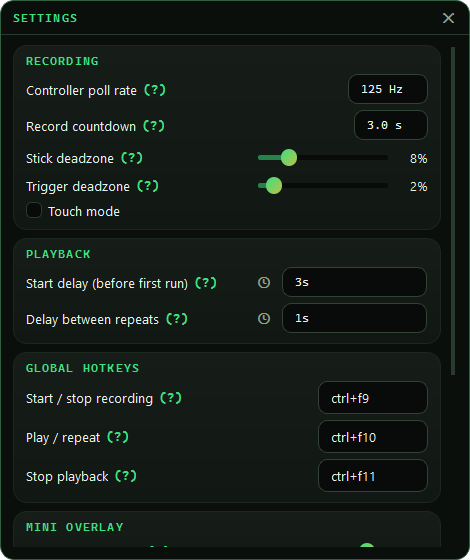
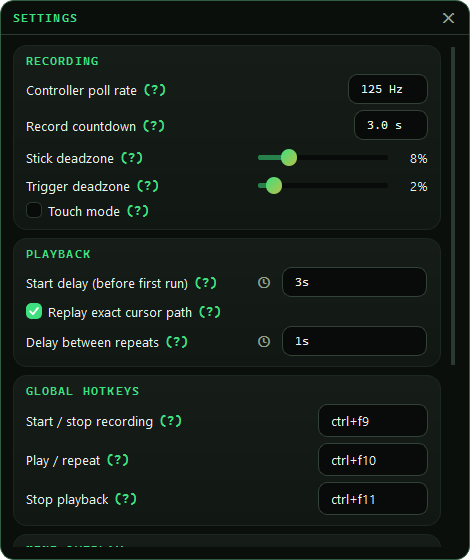
Exact cursor path defaults ON; (?) help on every settings checkbox
- mouse_path_replay defaults True: pixel-deterministic replay on any
  device/settings/screen is the right default for most users; game
  camera-look macros switch it off for raw counts
- All settings checkboxes (Touch mode, Replay exact cursor path, Show
  hotkey hints, Sound cues) now carry the same (?) hover-help as every
  other row - no setting goes unexplained
- README settings row + mouse-capture feature bullet updated for the
  new default; settings screenshot retaken

diff --git a/ui/settings_panel.py b/ui/settings_panel.py
@@ -147,6 +147,18 @@ class SettingsDialog(FramelessDialog):
         h.addWidget(value_label)
         self._setting(section, title, wrap, tip)
 
+    def _check_row(self, section: QVBoxLayout, checkbox: QCheckBox,
+                   tip: str) -> None:
+        """Checkbox row with the same (?) hover-help as every other
+        setting — no row goes unexplained."""
+        checkbox.setToolTip(_rich(tip))
+        row = QHBoxLayout()
+        row.setSpacing(6)
+        row.addWidget(checkbox)
+        row.addWidget(HelpMark(tip))
+        row.addStretch(1)
+        section.addLayout(row)
+
     # ------------------------------------------------------------- sections
     def _build_recording_section(self) -> None:
         s = self._section("Recording")
@@ -206,12 +218,12 @@ class SettingsDialog(FramelessDialog):
         self.touch_mode = QCheckBox("Touch mode")
         self.touch_mode.setChecked(cfg.touch_mode)
         self.touch_mode.toggled.connect(self._apply)
-        self.touch_mode.setToolTip(_rich(
+        self._check_row(
+            s, self.touch_mode,
             "Record taps, drags and swipes as absolute on-screen gestures "
             "and replay them as genuine Windows touch input. Best for "
             "touchscreen apps and UI automation. Leave OFF for games — "
-            "they need the default relative mouse deltas for camera look."))
-        s.addWidget(self.touch_mode)
+            "they need the default relative mouse deltas for camera look.")
 
     def _build_playback_section(self) -> None:
         s = self._section("Playback")
@@ -231,19 +243,18 @@ class SettingsDialog(FramelessDialog):
         self.mouse_path = QCheckBox("Replay exact cursor path")
         self.mouse_path.setChecked(cfg.playback.mouse_path_replay)
         self.mouse_path.toggled.connect(self._apply)
-        self.mouse_path.setToolTip(_rich(
-            "ON: mouse motion replays as the exact recorded cursor "
-            "positions (absolute) — bypasses pointer speed/acceleration "
-            "entirely, so it is pixel-deterministic on ANY device and "
-            "settings, including touchpads, and rescales across screen "
-            "sizes. Use this for desktop/UI macros — especially with "
-            "Windows' 'Enhance pointer precision' enabled, where "
-            "raw-count replay of hand motion ALWAYS drifts (the accel "
-            "curve is velocity-dependent). "
-            "OFF (default): raw relative counts — what games need for "
-            "camera look (games read input before acceleration, so "
-            "they are unaffected by it)."))
-        s.addWidget(self.mouse_path)
+        self._check_row(
+            s, self.mouse_path,
+            "ON (default): mouse motion replays as the exact recorded "
+            "cursor positions (absolute) — bypasses pointer speed and "
+            "acceleration entirely, so it is pixel-deterministic on ANY "
+            "device and settings, including touchpads, and rescales "
+            "across screen sizes. Windows' 'Enhance pointer precision' "
+            "makes raw-count replay of hand motion drift BY DESIGN (its "
+            "accel curve is velocity-dependent) — this mode is immune. "
+            "Turn OFF for game camera-look macros: games read raw "
+            "relative input before acceleration and need the raw "
+            "counts, not cursor positions.")
 
         self.loop_delay = DurationPicker()
         self.loop_delay.setValue(cfg.playback.loop_delay)
@@ -309,13 +320,12 @@ class SettingsDialog(FramelessDialog):
         self.ov_hints = QCheckBox("Show hotkey hints")
         self.ov_hints.setChecked(cfg.overlay.show_hints)
         self.ov_hints.toggled.connect(self._apply)
-        self.ov_hints.setToolTip(
+        self._check_row(
+            s, self.ov_hints,
             "Shows the record/play/stop combos on the overlay. Note: the "
-            "overlay needs the game in Borderless/Windowed mode — exclusive "
-            "fullscreen bypasses the compositor, and no overlay (ours or "
-            "Steam's) can draw over it."
-        )
-        s.addWidget(self.ov_hints)
+            "overlay needs the game in Borderless/Windowed mode — "
+            "exclusive fullscreen bypasses the compositor, and no overlay "
+            "(ours or Steam's) can draw over it.")
 
     def _build_interface_section(self) -> None:
         s = self._section("Interface")
@@ -336,11 +346,11 @@ class SettingsDialog(FramelessDialog):
         self.sounds = QCheckBox("Sound cues")
         self.sounds.setChecked(cfg.sounds)
         self.sounds.toggled.connect(self._apply)
-        self.sounds.setToolTip(_rich(
-            "Short distinct beeps for record start/stop, playback start, "
-            "finish, and abort — so you always know what the app did while "
-            "the game has focus."))
-        s.addWidget(self.sounds)
+        self._check_row(
+            s, self.sounds,
+            "Short distinct beeps for record start/stop, the countdown "
+            "tick, playback start, finish, and abort — so you always "
+            "know what the app did while the game has focus.")
 
     def _build_schemes_section(self) -> None:
         s = self._section("Controller schemes")

diff --git a/core/config.py b/core/config.py
@@ -66,10 +66,11 @@ class PlaybackConfig(BaseModel):
     loop_mode: int = Field(default=0, ge=0, le=2)  # once / N times / forever
     loop_count: int = Field(default=5, ge=2, le=9999)
     # Replay the exact recorded cursor path (absolute injection) instead
-    # of raw relative counts. OFF = game-grade raw counts (same-screen);
-    # ON = deterministic positions on ANY pointer device/settings —
-    # the fix for touchpads and machines where relative replay drifts
-    mouse_path_replay: bool = False
+    # of raw relative counts. ON (default) = pixel-deterministic on ANY
+    # pointer device/settings/screen — immune to Windows' velocity-
+    # dependent pointer acceleration. OFF = game-grade raw counts for
+    # in-game camera look (games read input before acceleration)
+    mouse_path_replay: bool = True
 
 
 class AppConfig(BaseModel):

diff --git a/README.md b/README.md
@@ -85,11 +85,12 @@ Output flows through a virtual Xbox 360 pad and genuine relative input events, s
 - **True hardware mouse capture** via **Windows Raw Input**: real deltas,
   immune to games recentering or clamping the cursor. Analog values are
   recorded **raw** (deadzone is only a noise gate — never rescaled).
-  Each move also rides along the **absolute cursor path** — same-screen
-  replay stays bit-perfect raw counts (what games need), while replay on
-  a *different* screen automatically switches to the recorded cursor
-  path, rescaled, bypassing pointer speed/acceleration — so mouse macros
-  survive moving between machines and resolutions.
+  Each move also records the **absolute cursor path**, and by default
+  replay follows that exact path (rescaled across screen sizes),
+  bypassing pointer speed/acceleration — pixel-deterministic on any
+  device, any settings, any machine. For in-game camera look, switch
+  *Replay exact cursor path* off and playback uses the bit-perfect raw
+  counts instead (games read input before acceleration).
 - **Precise replay** — hybrid sleep/busy-wait scheduling with
   TIME_CRITICAL threads lands events within ~1 ms of the recorded
   timestamps even under full game load. Mouse motion replays as genuine
@@ -287,7 +288,7 @@ branding are never touched).
 |---|---|---|
 | **Start delay** (default 3 s) | Grace period after pressing Play. Type any duration (`90`, `1h 30m`, `1:30:05`) or open the clock panel; long delays *schedule* the run — the plan line shows the exact clock time and a countdown ticks on the overlay. | Leave 0 to replay into the focused app instantly; type `2h 30m` to schedule a run for later tonight. |
 | **Delay between repeats** (default 1 s) | Pause after each run when repeating N times or looping forever — same smart field, so time-based repeats are just `1h`. Synced with the main-screen field. | 30 s respawn wait → `30`; run the loop once every hour → `1h`. |
-| **Replay exact cursor path** (default OFF) | ON: mouse motion replays as the recorded absolute cursor positions — bypasses pointer speed/acceleration, pixel-deterministic on any device (touchpads included) and rescales across screens. OFF: raw relative counts — what games need. | Windows' "Enhance pointer precision" makes raw-count replay of hand motion drift **by design** (velocity-dependent curve) → turn this ON for desktop/UI macros; keep OFF for in-game camera look. |
+| **Replay exact cursor path** (default ON) | Mouse motion replays as the recorded absolute cursor positions — bypasses pointer speed/acceleration, pixel-deterministic on any device (touchpads included) and rescales across screens. OFF switches to raw relative counts. | Windows' "Enhance pointer precision" makes raw-count replay of hand motion drift **by design** (velocity-dependent curve) — the default is immune. Turn OFF for in-game camera-look macros: games read raw input *before* acceleration and need the counts. |
 
 ### Global hotkeys
 
